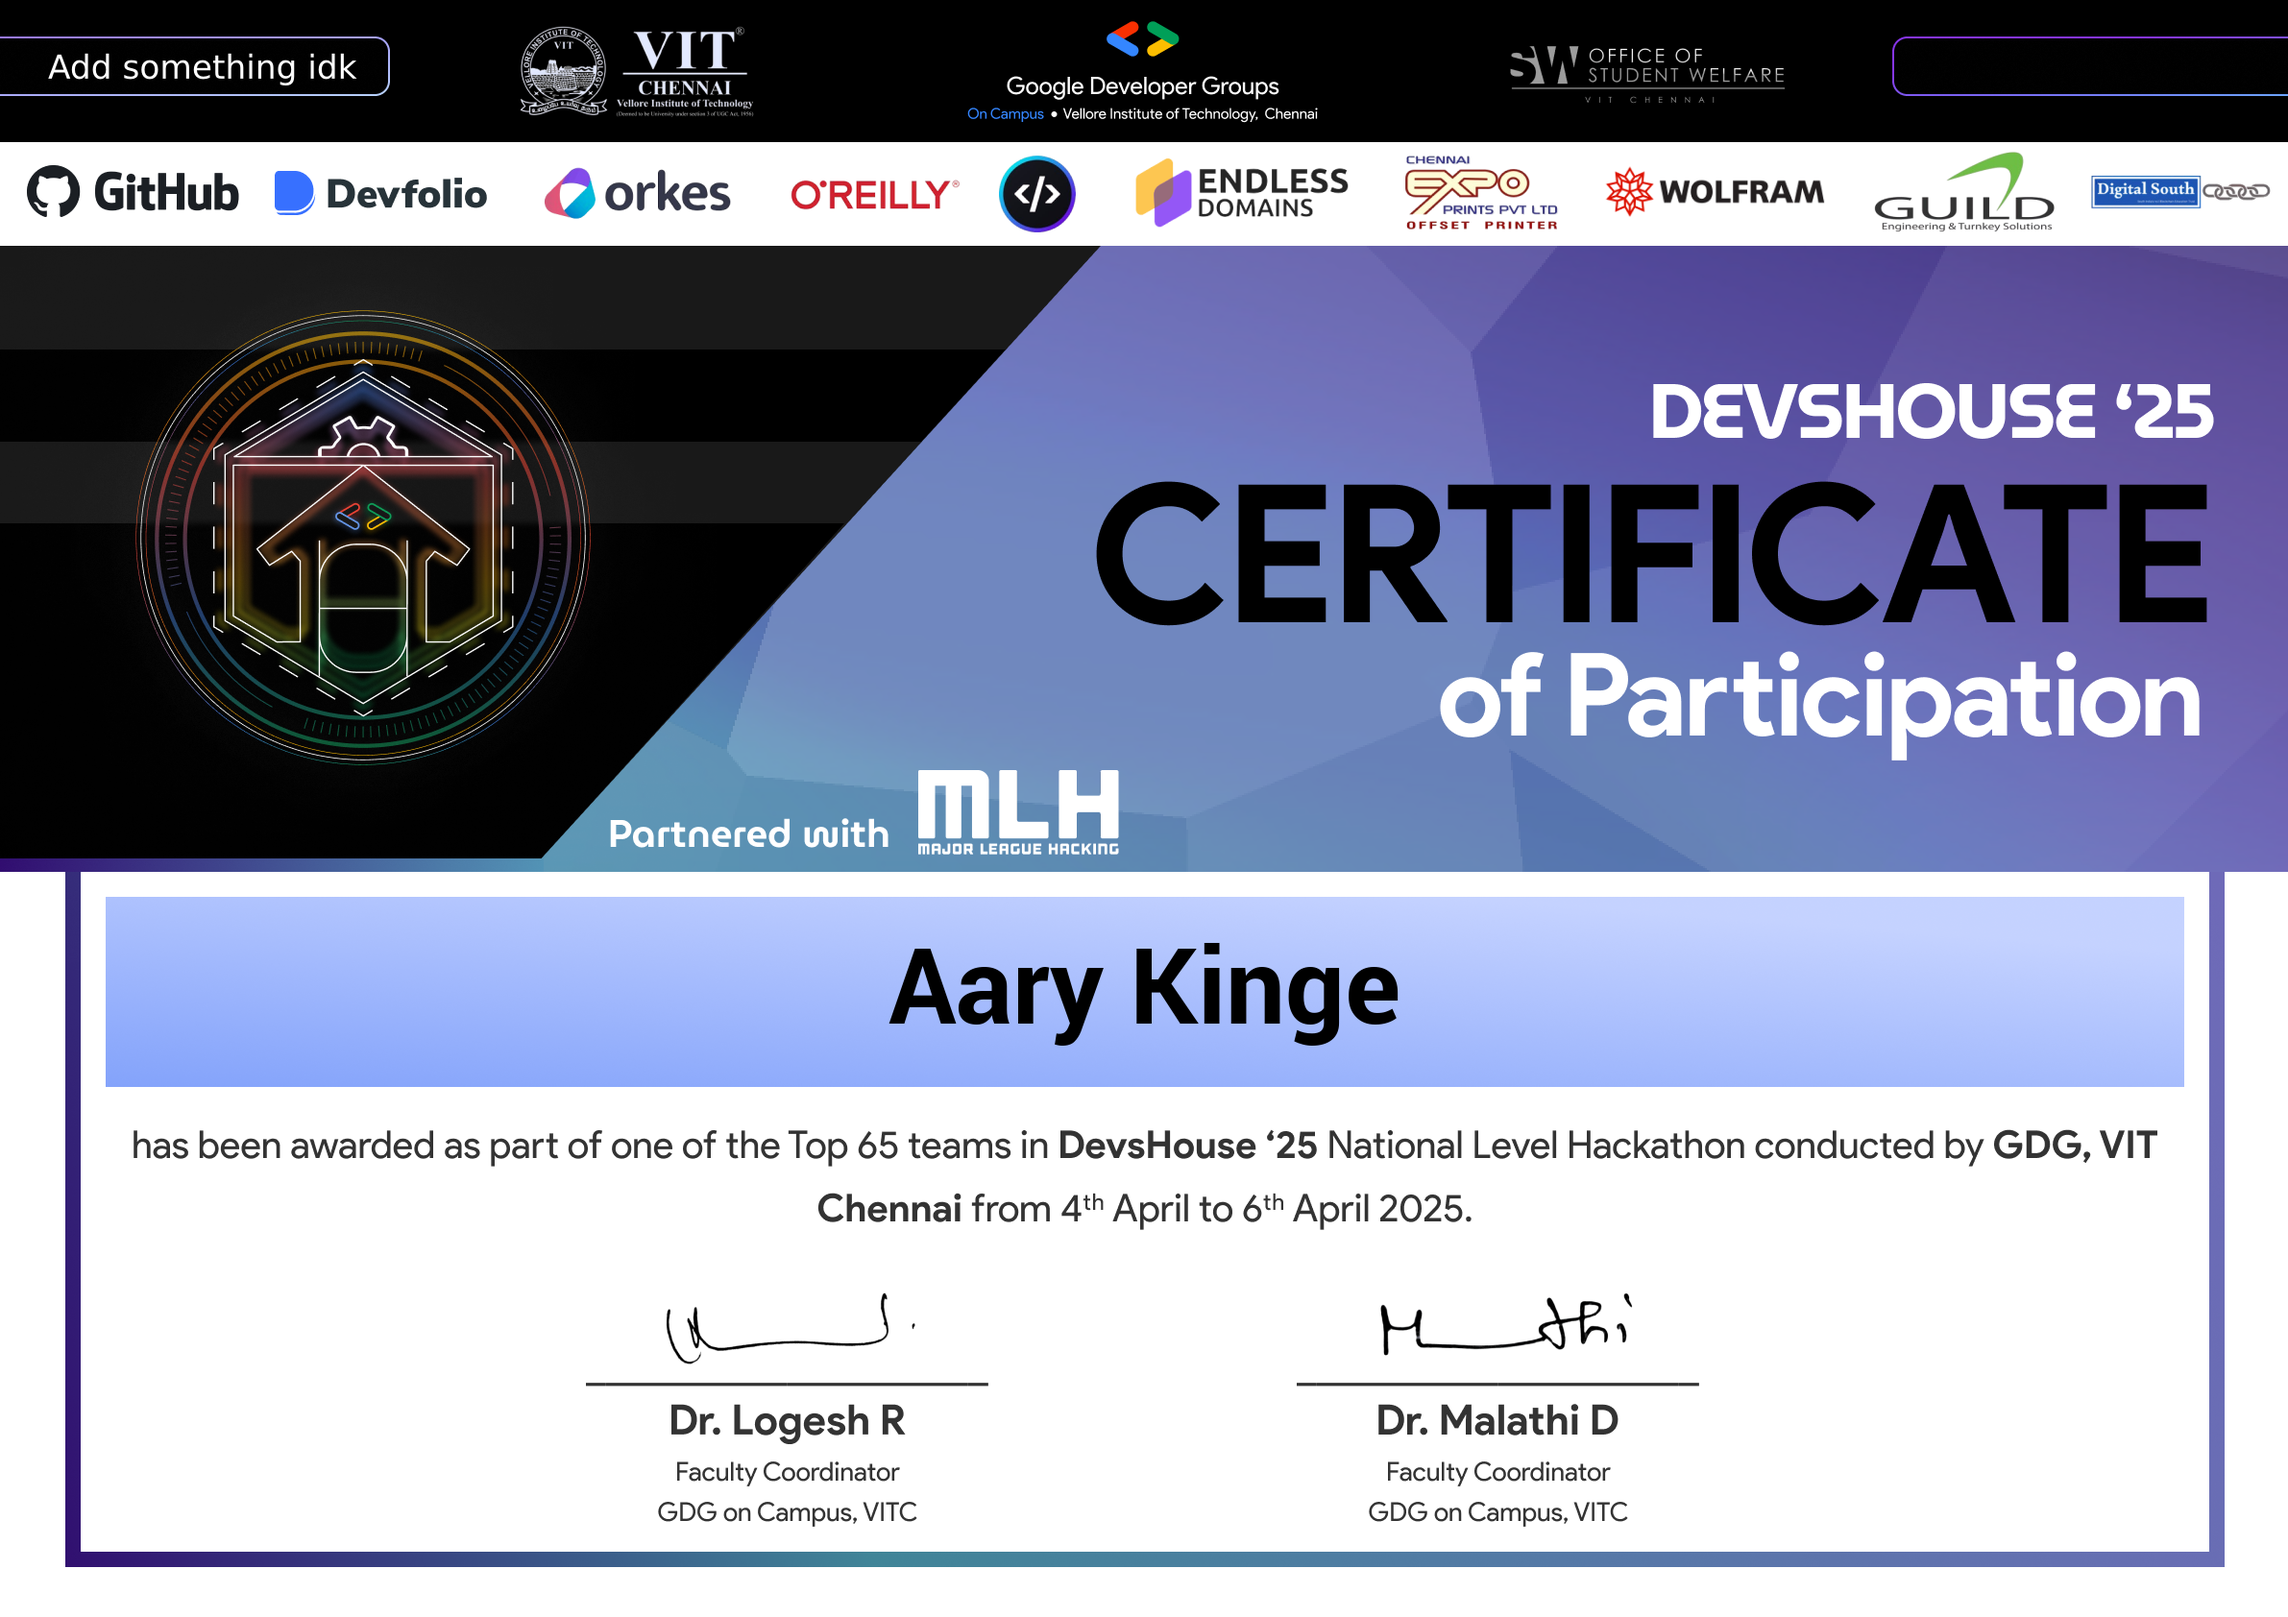
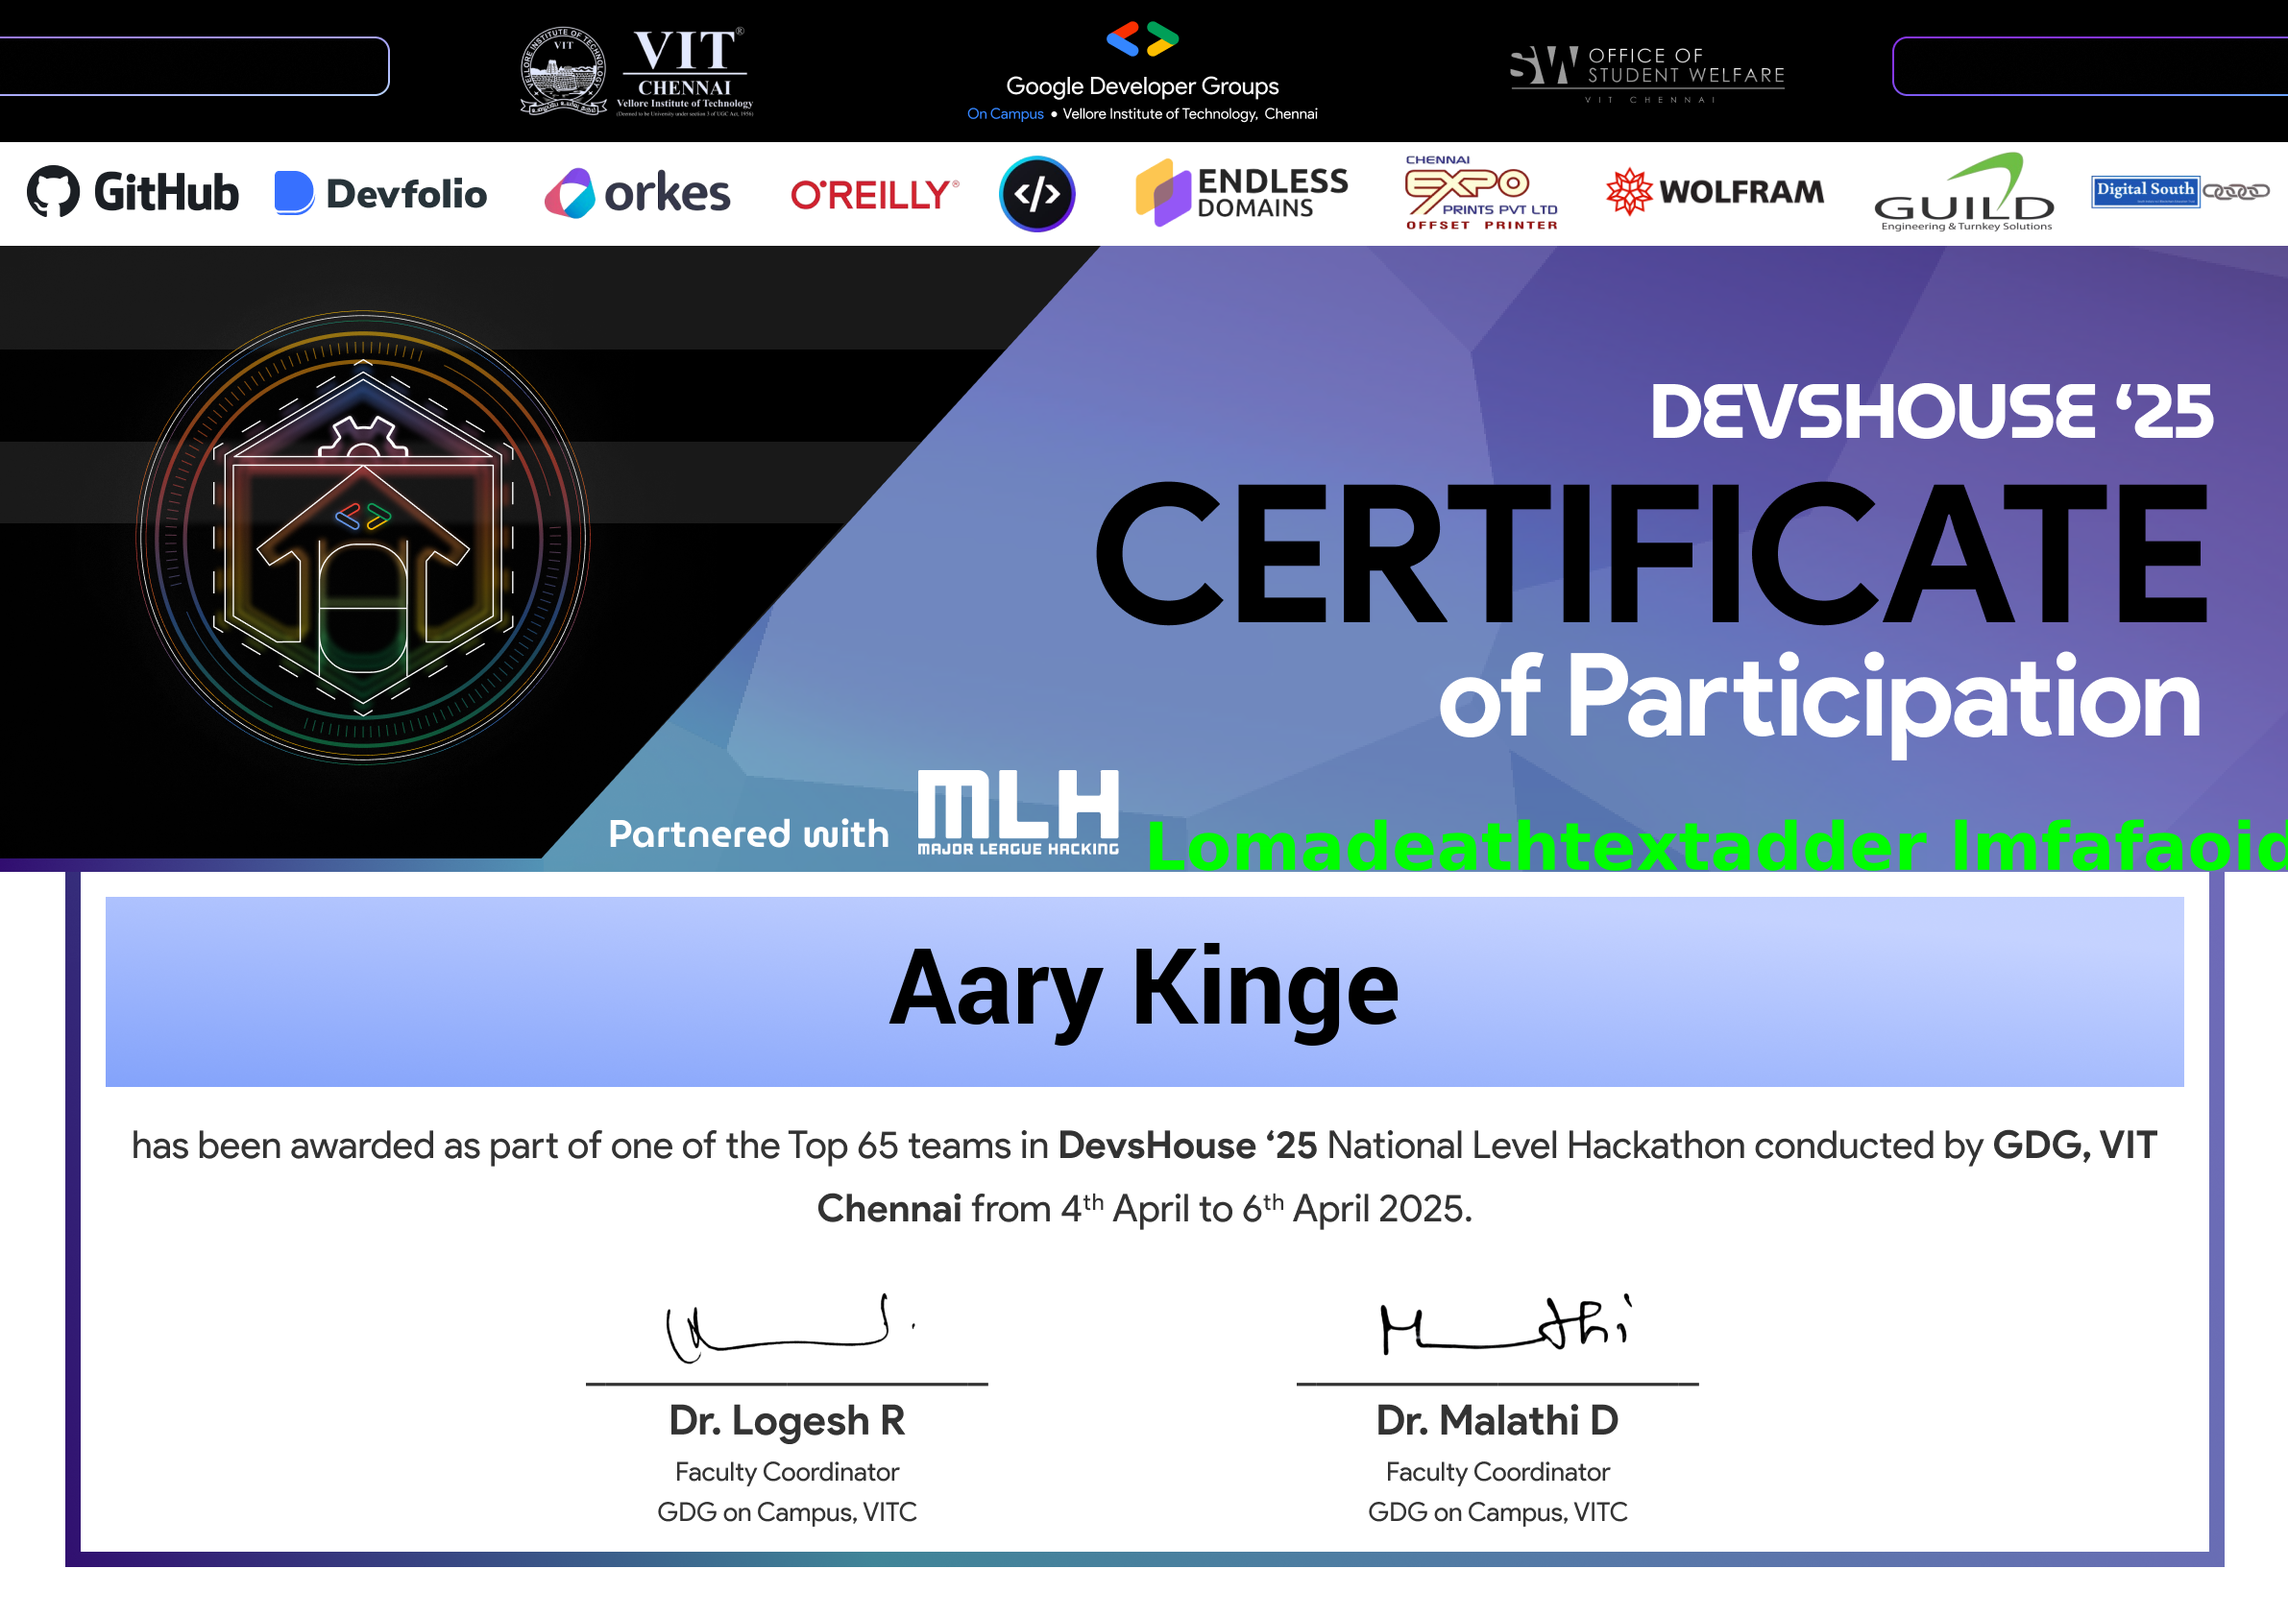
Added better editable options

Changed region(s): [[0.4971, 0.4941, 1.0, 0.5558], [0.0311, 0.0309, 0.1553, 0.0618]]

diff --git a/CertificateMaker/src/editpng.rs b/CertificateMaker/src/editpng.rs
@@ -3,11 +3,149 @@ use anyhow::{Context, Result};
 use image::{Rgba, open, ImageFormat};
 use imageproc::drawing::draw_text_mut;
 use rusttype::{Font, Scale};
+use std::fs;
+use std::io::{self, Write};
+use std::path::Path;
 
-// Define font data as a constant
-const FONT_DATA: &[u8] = include_bytes!("../assets/DejaVuSans.ttf");
+// Function to list all font files in assets directory
+pub fn list_available_fonts() -> Result<Vec<String>> {
+    let assets_dir = "assets";
+    let mut font_files = Vec::new();
+    
+    if Path::new(assets_dir).exists() {
+        let entries = fs::read_dir(assets_dir)
+            .with_context(|| "Failed to read assets directory")?;
+        
+        for entry in entries {
+            let entry = entry?;
+            let path = entry.path();
+            if let Some(extension) = path.extension() {
+                let ext = extension.to_string_lossy().to_lowercase();
+                if ext == "ttf" || ext == "otf" {
+                    if let Some(filename) = path.file_name() {
+                        font_files.push(filename.to_string_lossy().to_string());
+                    }
+                }
+            }
+        }
+    }
+    
+    if font_files.is_empty() {
+        return Err(anyhow::anyhow!("No font files found in assets directory"));
+    }
+    
+    font_files.sort();
+    Ok(font_files)
+}
 
-pub fn add_text_to_png(
+// Function to load font data from filename
+fn load_font_data(font_filename: &str) -> Result<Vec<u8>> {
+    let font_path = format!("assets/{}", font_filename);
+    fs::read(&font_path)
+        .with_context(|| format!("Failed to read font file: {}", font_path))
+}
+
+// Function to convert hex color to RGBA
+pub fn hex_to_rgba(hex: &str) -> Result<Rgba<u8>> {
+    let hex = hex.trim_start_matches('#');
+    
+    if hex.len() != 6 && hex.len() != 8 {
+        return Err(anyhow::anyhow!("Invalid hex color format. Use #RRGGBB or #RRGGBBAA"));
+    }
+    
+    let r = u8::from_str_radix(&hex[0..2], 16)
+        .with_context(|| "Invalid red component in hex color")?;
+    let g = u8::from_str_radix(&hex[2..4], 16)
+        .with_context(|| "Invalid green component in hex color")?;
+    let b = u8::from_str_radix(&hex[4..6], 16)
+        .with_context(|| "Invalid blue component in hex color")?;
+    
+    let a = if hex.len() == 8 {
+        u8::from_str_radix(&hex[6..8], 16)
+            .with_context(|| "Invalid alpha component in hex color")?
+    } else {
+        255 // Default to full opacity
+    };
+    
+    Ok(Rgba([r, g, b, a]))
+}
+
+// Function to get user input
+fn get_user_input(prompt: &str) -> String {
+    print!("{}", prompt);
+    io::stdout().flush().unwrap();
+    
+    let mut input = String::new();
+    io::stdin().read_line(&mut input).unwrap();
+    input.trim().to_string()
+}
+
+// Function to select font interactively
+pub fn select_font() -> Result<String> {
+    println!("\n🔤 Available Fonts:");
+    let fonts = list_available_fonts()?;
+    
+    for (i, font) in fonts.iter().enumerate() {
+        println!("  {}. {}", i + 1, font);
+    }
+    
+    loop {
+        let input = get_user_input("\nEnter font name or number: ");
+        
+        // Try to parse as number first
+        if let Ok(num) = input.parse::<usize>() {
+            if num > 0 && num <= fonts.len() {
+                return Ok(fonts[num - 1].clone());
+            }
+        }
+        
+        // Try to find by name (case insensitive)
+        for font in &fonts {
+            if font.to_lowercase() == input.to_lowercase() {
+                return Ok(font.clone());
+            }
+        }
+        
+        println!("❌ Invalid selection. Please try again.");
+    }
+}
+
+// Function to get color from user
+pub fn get_color_from_user() -> Result<Rgba<u8>> {
+    println!("\n🎨 Color Options:");
+    println!("  • Enter hex color (e.g., #FF0000 for red, #00FF00 for green)");
+    println!("  • Or use common colors: white, black, red, green, blue, yellow");
+    
+    loop {
+        let input = get_user_input("Enter color: ");
+        
+        // Check for common color names
+        let color = match input.to_lowercase().as_str() {
+            "white" => Rgba([255, 255, 255, 255]),
+            "black" => Rgba([0, 0, 0, 255]),
+            "red" => Rgba([255, 0, 0, 255]),
+            "green" => Rgba([0, 255, 0, 255]),
+            "blue" => Rgba([0, 0, 255, 255]),
+            "yellow" => Rgba([255, 255, 0, 255]),
+            "orange" => Rgba([255, 165, 0, 255]),
+            "purple" => Rgba([128, 0, 128, 255]),
+            _ => {
+                // Try to parse as hex
+                match hex_to_rgba(&input) {
+                    Ok(color) => color,
+                    Err(_) => {
+                        println!("❌ Invalid color. Try a hex code like #FF0000 or a color name like 'red'");
+                        continue;
+                    }
+                }
+            }
+        };
+        
+        return Ok(color);
+    }
+}
+
+pub fn add_text_to_png_interactive(
     input_path: &str,
     output_path: &str,
     text: &str,
@@ -18,18 +156,31 @@ pub fn add_text_to_png(
         .with_context(|| format!("Failed to open image: {}", input_path))?
         .to_rgba8();
 
-    let font = Font::try_from_bytes(FONT_DATA)
-        .ok_or_else(|| anyhow::anyhow!("Failed to load font"))?;
+    // Select font
+    let font_filename = select_font()?;
+    let font_data = load_font_data(&font_filename)?;
+    let font = Font::try_from_bytes(&font_data)
+        .ok_or_else(|| anyhow::anyhow!("Failed to load font: {}", font_filename))?;
 
-    let scale = Scale::uniform(40.0);
-    let color = Rgba([255u8, 255u8, 255u8, 255u8]);
+    // Get font size
+    let font_size_input = get_user_input("Enter font size (default 40): ");
+    let font_size = if font_size_input.is_empty() {
+        40.0
+    } else {
+        font_size_input.parse().unwrap_or(40.0)
+    };
 
+    // Get color
+    let color = get_color_from_user()?;
+
+    let scale = Scale::uniform(font_size);
     draw_text_mut(&mut img, color, x, y, scale, &font, text);
 
     img.save_with_format(output_path, ImageFormat::Png)
         .with_context(|| format!("Failed to save image: {}", output_path))?;
 
-    println!("Text added successfully! Saved to: {}", output_path);
+    println!("✅ Text added successfully with font '{}' and size {}!", font_filename, font_size);
+    println!("📁 Saved to: {}", output_path);
     Ok(())
 }
 
@@ -39,24 +190,40 @@ pub fn add_text_with_custom_options(
     text: &str,
     x: i32,
     y: i32,
+    font_filename: &str,
     font_size: f32,
-    color: (u8, u8, u8, u8),
+    hex_color: &str,
 ) -> Result<()> {
     let mut img = open(input_path)
         .with_context(|| format!("Failed to open image: {}", input_path))?
         .to_rgba8();
 
-    let font = Font::try_from_bytes(FONT_DATA)
-        .ok_or_else(|| anyhow::anyhow!("Failed to load font"))?;
+    // Load selected font
+    let font_data = load_font_data(font_filename)?;
+    let font = Font::try_from_bytes(&font_data)
+        .ok_or_else(|| anyhow::anyhow!("Failed to load font: {}", font_filename))?;
+
+    // Convert hex color to RGBA
+    let text_color = hex_to_rgba(hex_color)?;
 
     let scale = Scale::uniform(font_size);
-    let text_color = Rgba([color.0, color.1, color.2, color.3]);
-
     draw_text_mut(&mut img, text_color, x, y, scale, &font, text);
 
     img.save_with_format(output_path, ImageFormat::Png)
         .with_context(|| format!("Failed to save image: {}", output_path))?;
 
-    println!("Custom text added successfully! Saved to: {}", output_path);
+    println!("✅ Custom text added successfully!");
+    println!("📁 Saved to: {}", output_path);
     Ok(())
+}
+
+// Legacy function for backward compatibility
+pub fn add_text_to_png(
+    input_path: &str,
+    output_path: &str,
+    text: &str,
+    x: i32,
+    y: i32,
+) -> Result<()> {
+    add_text_to_png_interactive(input_path, output_path, text, x, y)
 }

diff --git a/CertificateMaker/src/analysis.rs b/CertificateMaker/src/analysis.rs
@@ -82,6 +82,34 @@ pub fn print_analysis(analysis: &PngAnalysis) {
     println!("Total pixels: {}", analysis.pixel_count);
     println!("Aspect ratio: {:.3}", analysis.width as f64 / analysis.height as f64);
     
+    // Separate coordinates section with useful positioning information
+    println!("\n--- Useful Coordinates ---");
+    let middle_x = analysis.width / 2;
+    let middle_y = analysis.height / 2;
+    let quarter_x = analysis.width / 4;
+    let quarter_y = analysis.height / 4;
+    let three_quarter_x = (analysis.width * 3) / 4;
+    let three_quarter_y = (analysis.height * 3) / 4;
+    
+    println!("🎯 Center point: ({}, {})", middle_x, middle_y);
+    println!("📍 Corner coordinates:");
+    println!("  • Top-left: (0, 0)");
+    println!("  • Top-right: ({}, 0)", analysis.width - 1);
+    println!("  • Bottom-left: (0, {})", analysis.height - 1);
+    println!("  • Bottom-right: ({}, {})", analysis.width - 1, analysis.height - 1);
+    
+    println!("📐 Edge midpoints:");
+    println!("  • Top edge center: ({}, 0)", middle_x);
+    println!("  • Bottom edge center: ({}, {})", middle_x, analysis.height - 1);
+    println!("  • Left edge center: (0, {})", middle_y);
+    println!("  • Right edge center: ({}, {})", analysis.width - 1, middle_y);
+    
+    println!("🔳 Quarter positions:");
+    println!("  • Top-left quarter: ({}, {})", quarter_x, quarter_y);
+    println!("  • Top-right quarter: ({}, {})", three_quarter_x, quarter_y);
+    println!("  • Bottom-left quarter: ({}, {})", quarter_x, three_quarter_y);
+    println!("  • Bottom-right quarter: ({}, {})", three_quarter_x, three_quarter_y);
+
     println!("\n--- Color Information ---");
     println!("Color type: {:?}", analysis.color_type);
     println!("Bit depth: {:?}", analysis.bit_depth);

diff --git a/CertificateMaker/src/main.rs b/CertificateMaker/src/main.rs
@@ -8,7 +8,7 @@ mod editpng;
 
 // Import functions
 use analysis::{analyze_png_file, print_analysis};
-use editpng::add_text_to_png;
+use editpng::add_text_to_png_interactive; // Changed from add_text_to_png
 
 fn get_user_input(prompt: &str) -> String {
     print!("{}", prompt);
@@ -38,21 +38,22 @@ fn main() -> Result<()> {
         return Ok(());
     }
 
-    let x_input = get_user_input("Enter X position (or press Enter for default 50): ");
+    let x_input = get_user_input("Enter X position Width starts from top left (or press Enter for default 50):  ");
     let x_pos = if x_input.is_empty() { 50 } else { x_input.parse().unwrap_or(50) };
     
-    let y_input = get_user_input("Enter Y position (or press Enter for default 50): ");
+    let y_input = get_user_input("Enter Y position Height starts from top left(or press Enter for default 50): ");
     let y_pos = if y_input.is_empty() { 50 } else { y_input.parse().unwrap_or(50) };
 
-    // Add text with custom options
-    match editpng::add_text_with_custom_options(
+    println!("\n📝 Now you'll select font, font size, and color interactively...");
+
+    // Add text with interactive font and color selection
+    match add_text_to_png_interactive( // Changed function call
         input_file,
         output_file,
         &text,
         x_pos,
         y_pos,
-        40.0,                           // font size
-        (255, 255, 255, 255),          // white color RGBA
+        // Removed hardcoded font size and color - now handled interactively
     ) {
         Ok(()) => {
             println!("✅ Text successfully added!");
@@ -68,4 +69,3 @@ fn main() -> Result<()> {
 
     Ok(())
 }
-
